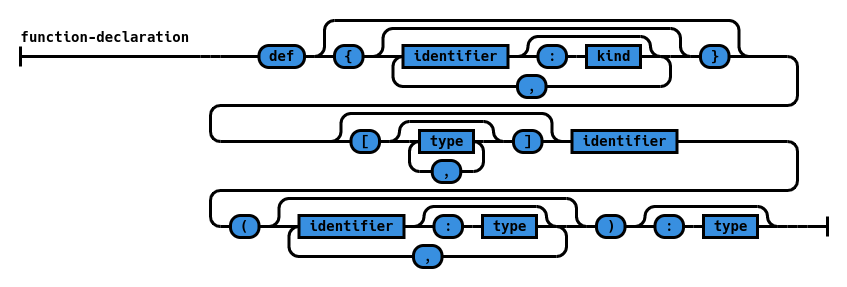
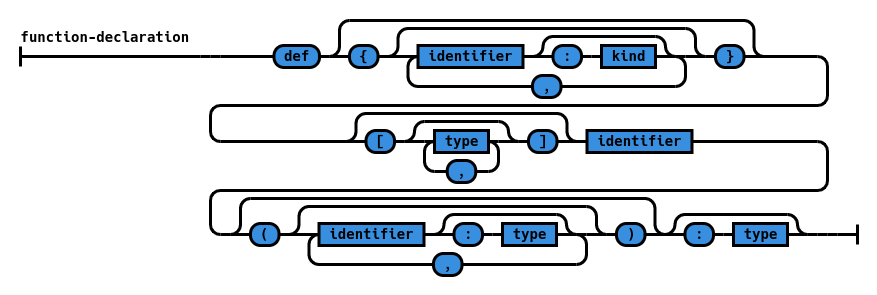
make parentheses optional when declaring a value

Changed region(s): [[0.0, 0.0557, 0.9823, 0.9477]]

diff --git a/railroad-diagrams.py b/railroad-diagrams.py
@@ -1213,20 +1213,24 @@ def zilch_function_declaration():
 			NonTerminal('identifier')
 		),
 		Sequence(
-			Terminal('('),
-			ZeroOrMore(
+			Optional(
 				Sequence(
-					NonTerminal('identifier'),
-					Optional(
+					Terminal('('),
+					ZeroOrMore(
 						Sequence(
-							Terminal(':'),
-							NonTerminal('type')
-						)
-					)
-				),
-				Terminal(',')
+							NonTerminal('identifier'),
+							Optional(
+								Sequence(
+									Terminal(':'),
+									NonTerminal('type')
+								)
+							)
+						),
+						Terminal(',')
+					),
+					Terminal(')')
+				)
 			),
-			Terminal(')'),
 			Optional(
 				Sequence(
 					Terminal(':'),
@@ -1491,4 +1495,4 @@ def zilch_kind():
 	return mk_diagram2('kind', inner)
 
 
-zilch_kind().writeSvg(sys.stdout.write)
+zilch_function_declaration().writeSvg(sys.stdout.write)
